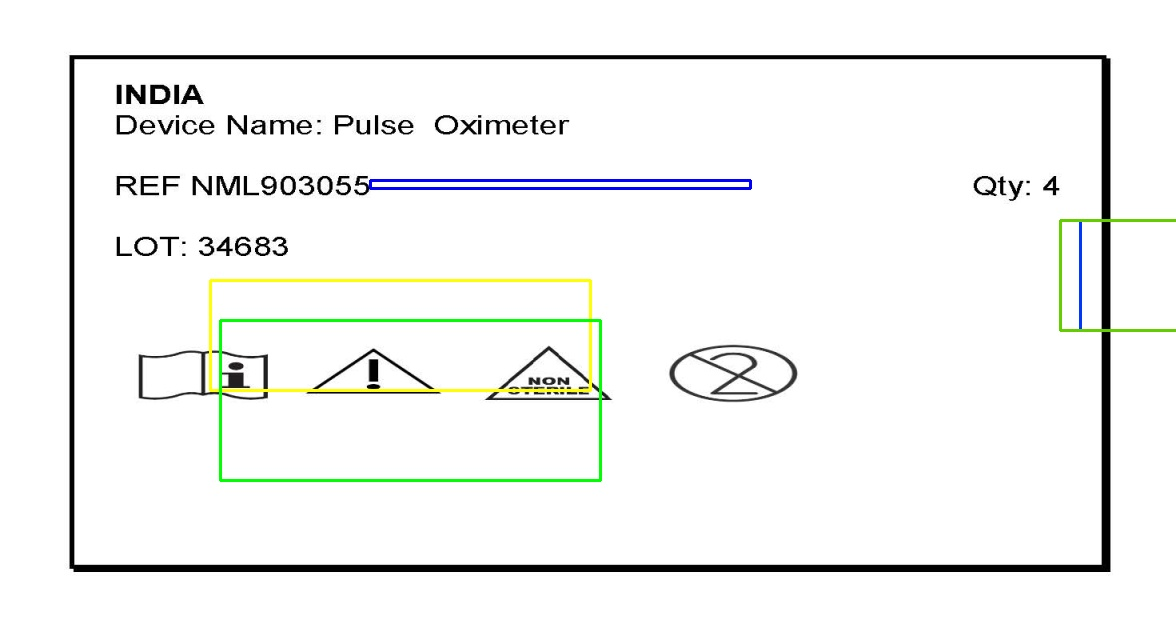
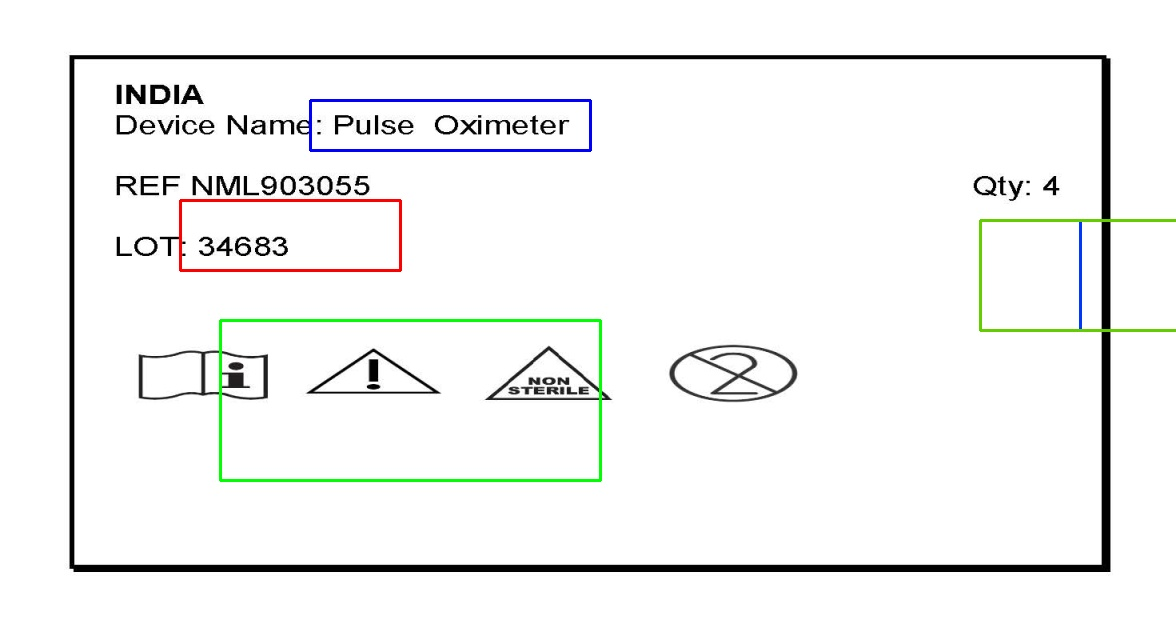
file added

diff --git a/backup.py b/backup.py
@@ -12,7 +12,7 @@ for i in range(len(os.listdir(datadir))):
     path = os.path.join(datadir,filename)
     print(path)
     img_path = path
-    # img_array = cv2.imread(img_path)
+
     img_array = cv2.imread(img_path, cv2.IMREAD_UNCHANGED)
     # print('Original Dimensions : ',img_array.shape)
     
@@ -24,19 +24,39 @@ for i in range(len(os.listdir(datadir))):
     # resize image
     img_array = cv2.resize(img_array, dim, interpolation = cv2.INTER_AREA)
     
-    # print('Resized Dimensions : ',img_array.shape)
-    # ref_axis, ref_box = 
-    # device_axis, device_box = ((370,180),(270+380,110+8))
-    # lot_axis, lot_box = ((220,320),(100+380,210+160))
-    # qty_axis, qty_box = ((1080,220),(280+980,210+110))
-    # symbol_axis1, symbols_box1 = ((1060,220),(320+920,10+110))
-    # symbol_axis2, symbols_box2 = ((140,420),(300+430,210+420))
     def crop(x, y, w, h, img_type):
-        if img_type == 'ref':
-            img=cv2.rectangle(img_array,(x,y),(x+w,y+h),(0,255,255),2)
+        # if img_type == 'ref':
+        #     img=cv2.rectangle(img_array,(x,y),(x+w,y+h),(0,255,255),2)
+        #     x=x+15
+        #     y=y+1
+        #     crop_img = img_array[y:y+h, x:x+w]
+        # elif img_type == 'device':
+        #     img=cv2.rectangle(img_array,(x,y),(x+w,y+h),(255,0,0),2)
+        #     x=x+1
+        #     y=y+1
+        #     crop_img = img_array[y:y+h, x:x+w]
+        # elif img_type == 'lot':
+        #     img=cv2.rectangle(img_array,(x,y),(x+w,y+h),(0,255,0),2)
+        #     x=x+1
+        #     y=y+1
+        #     crop_img = img_array[y:y+h, x:x+w]
+        # elif img_type == 'qty':
+        #     img=cv2.rectangle(img_array,(x,y),(x+w,y+h),(255,55,0),2)
+        #     x=x+1
+        #     y=y+1
+        #     crop_img = img_array[y:y+h, x:x+w]
+        # elif img_type == 'symbol':
+        #     img=cv2.rectangle(img_array,(x,y),(x+w,y+h),(0,205,100),2)
+        #     x=x+1
+        #     y=y+1
+        #     crop_img = img_array[y:y+h, x:x+w]
+        # else:
+        #     print('Correct Type!')
+        if img_type == 'lot':
+            img=cv2.rectangle(img_array,(x,y),(x+w,y+h),(0,0,255),2)
         elif img_type == 'device':
             img=cv2.rectangle(img_array,(x,y),(x+w,y+h),(255,0,0),2)
-        elif img_type == 'lot':
+        elif img_type == 'ref':
             img=cv2.rectangle(img_array,(x,y),(x+w,y+h),(0,255,0),2)
         elif img_type == 'qty':
             img=cv2.rectangle(img_array,(x,y),(x+w,y+h),(255,55,0),2)
@@ -50,12 +70,12 @@ for i in range(len(os.listdir(datadir))):
         crop_img = img_array[y:y+h, x:x+w]
         return crop_img, img, boxed_img
 
-    cropped_ref_img = crop(210,280,380,110, img_type='ref')
-    cropped_device_img = crop(370,180,380,8, img_type='device')
-    cropped_lot_img = crop(220,320,380,160, img_type='lot')
+    cropped_lot_img = crop(180,200,220,70, img_type='lot')
+    cropped_device_img = crop(310,100,280,50, img_type='device')
+    cropped_ref_img = crop(220,320,380,160, img_type='ref')
     cropped_qty_img = crop(1080,220,980,110, img_type='qty')
-    cropped_symbol_img = crop(1060,220,920,110, img_type='symbol')
-    # print(cropped_ref_img[0])
+    cropped_symbol_img = crop(980,220,920,110, img_type='symbol')
+
     cv2.imwrite("cropped_ref_img.jpg", cropped_ref_img[0])
     cv2.imwrite("Image_output\device\cropped_device_img.jpg",cropped_device_img)
     cv2.imwrite("Image_output\lot\cropped_lot_img.jpg",cropped_lot_img)
